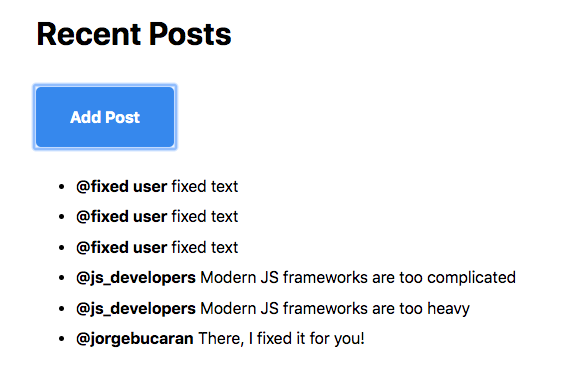
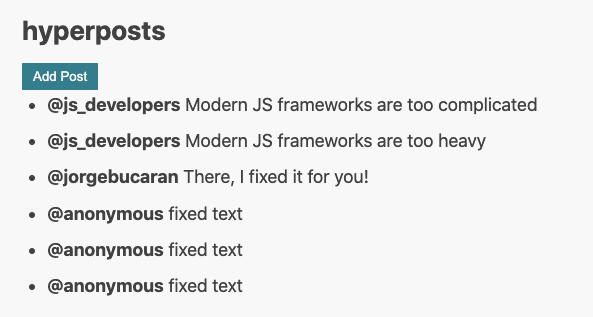
ch4 update

diff --git a/manuscript/ch4.md b/manuscript/ch4.md
@@ -7,10 +7,8 @@ The next code snippet shows how to render a dynamic view with a list of posts.
 
 Change you **App.js** to the following code:
 ```js
-import { h, app } from "./web_modules/hyperapp.js";
-import htm from "./web_modules/htm.js";
-
-const html = htm.bind(h);
+import { app } from "./web_modules/hyperapp.js";
+import html from "./web_modules/hyperlit.js";
 
 const state = {
   posts: [
@@ -32,7 +30,7 @@ const listItem = (post) => html`
 
 const view = (state) => html`
   <div>
-    <h1>Recent Posts</h1>
+    <h4>hyperposts</h1>
     <ul>
       ${state.posts.map(listItem)}
     </ul>
@@ -57,9 +55,9 @@ At the end of this section, your view should look like this:
 
 **Actions** bring interactivity to your application. As users click buttons or type some text, you want to react to those events.
 
-First, add a button just below the `h1` element:
+First, add a button just below the `h4` element:
 ```js
-<h1>Recent Posts</h1>
+<h4>hyperposts</h4>
 <button onclick=${AddPost}>Add Post</button>
 ```
 The `onclick` attribute translates to the DOM API click events. 
@@ -71,19 +69,19 @@ Add the action itself. Put it between the state and view declarations:
 ```js
 const AddPost = (state) => {
   const newPost = { username: "anonymous", body: "fixed text" };
-  return { ...state, posts: [newPost, ...state.posts] };
+  return { ...state, posts: [...state.posts, newPost] };
 };
 ```
 `AddPost` is a pure function mapping previous state to the new state. 
 When you click a button, Hyperapp automatically passes the previous state to your action. 
-`newPost` is created and added to the beginning of the posts list. 
+`newPost` is created and added to the end of the posts list. 
 A common pattern is to destructure the previous state and only update those properties that change. 
 Our current state has no other properties, but the code is future-proofed. 
 To keep your state updates simple, model your state as flat objects. The more nesting you do, the more
 elaborate update strategies you will need (e.g. [lenses](https://randycoulman.com/blog/2016/07/12/thinking-in-ramda-lenses/)). 
 
 The following figure shows the same action in a visual format:
-![Figure: Action is a pure function of state](images/action.jpg)
+![Figure: Action is a pure function of state](images/action.png)
 
 
 Test your app in the browser and click the **Add Post** button several times. New items should be added to the list.
@@ -98,7 +96,7 @@ Hyperapp **data flow** is inspired by the [Elm Architecture](https://guide.elm-l
 * action **A** creates a new state **S**
 * new state **S** causes re-render of the view **V** 
 
-![Figure: Functional data flow](images/data-flow.jpg)
+![Figure: Functional data flow](images/data-flow.png)
 
 As a Hyperapp user, you declare all the views, actions and the initial state. 
 Hyperapp connects the circles and takes care of:

diff --git a/manuscript/ch3.md b/manuscript/ch3.md
@@ -132,7 +132,7 @@ app({
   init: state,
   view: (state) => html`
 <div>
-    <h1>Recent Posts</h1>
+    <h4>HyperPosts</h4>
     <ul>
       <li>
         <strong>@js_developers</strong>
